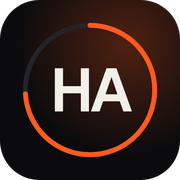
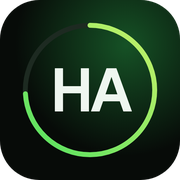
feat(design): 'Parrot' single-hue palette, derived from Harshan's colour
Parrot green is the only interactive colour; neutrals are green-tinted; the
accent word runs parrot -> yellow-green; deep forest atmosphere; red only for
errors. All text pairs >= 4.5:1 in both themes. Portrait gets a gradient frame;
44px nav targets; scrollbars restored; wordmark without stroke contours or
endless repaint; italic descenders no longer clipped. Share image and icons
regenerated; unused starter SVGs removed.

diff --git a/src/app/globals.css b/src/app/globals.css
@@ -19,30 +19,35 @@
 }
 
 /* ================================================================
-   Tokens — "Ember" (docs/design/REVAMP_2027.md §Tokens)
-   Warm paper / near-black neutrals + one signal colour: ember orange.
-   Every text pair verified ≥ 4.5:1 in both themes (see the doc's contrast table).
+   Tokens — "Parrot" (docs/design/REVAMP_2027.md §Tokens)
+   One hue, derived from Harshan's favourite: parrot green. Neutrals are green-tinted
+   (green-black canvas / leaf-paper), atmosphere is deep forest, the expressive word runs
+   parrot → yellow-green (the feather gradient). Red is used only for form errors.
+   Every text pair ≥ 4.5:1 in both themes.
    ================================================================ */
 :root {
-  --canvas: #f4f1ea; --surface: #fffdf8; --surface-2: #ebe7dd; --ink: #141210; --ink-2: #3a3631;
-  --muted: #67625a; --hairline: #e0dacd; --accent: #c2410c; --accent-ink: #ffffff; --accent-soft: rgba(194, 65, 12, .09); --danger: #c5262e;
-  --glow: rgba(234, 88, 12, .16); --glow-2: rgba(124, 58, 237, .08); --grain-op: .05; --inner: inset 0 1px 0 rgba(255, 255, 255, .8);
-  --shadow-card: 0 1px 2px rgba(40, 25, 10, .05), 0 18px 40px -12px rgba(40, 25, 10, .16);
+  --canvas: #f3f7f1; --surface: #ffffff; --surface-2: #e7efe4; --ink: #0b1a0f; --ink-2: #2c3d31;
+  --muted: #57685b; --hairline: #d9e3d5; --accent: #167a32; --accent-ink: #ffffff; --accent-soft: rgba(22, 122, 50, .1);
+  --g1: #167a32; --g2: #4f7a0a; --deep: #14532d; --danger: #c5262e;
+  --glow: rgba(22, 122, 50, .14); --glow-2: rgba(132, 190, 20, .12); --grain-op: .045; --inner: inset 0 1px 0 rgba(255, 255, 255, .8);
+  --shadow-card: 0 1px 2px rgba(10, 30, 15, .05), 0 18px 40px -12px rgba(10, 30, 15, .16);
   --glass: color-mix(in srgb, var(--surface) 72%, transparent);
+  --grad: linear-gradient(100deg, var(--g1) 15%, var(--g2) 95%);
   --r-panel: 28px; --r-card: 20px;
   --ease: cubic-bezier(.22, 1, .36, 1);
   --gutter: clamp(16px, 4vw, 56px);
   --maxw: 1440px;
 }
 html.dark {
-  --canvas: #0b0b0d; --surface: #141417; --surface-2: #1b1a1e; --ink: #f2efe9; --ink-2: #c8c4bc;
-  --muted: #8f8b84; --hairline: #242328; --accent: #ff5a1f; --accent-ink: #160700; --accent-soft: rgba(255, 90, 31, .12); --danger: #ff6b6b;
-  --glow: rgba(255, 90, 31, .16); --glow-2: rgba(139, 92, 246, .10); --grain-op: .06; --inner: inset 0 1px 0 rgba(255, 255, 255, .045);
+  --canvas: #070b08; --surface: #0f1611; --surface-2: #152018; --ink: #eef6ef; --ink-2: #c2d2c5;
+  --muted: #86998a; --hairline: #1d2a21; --accent: #52e05f; --accent-ink: #031207; --accent-soft: rgba(82, 224, 95, .12);
+  --g1: #52e05f; --g2: #c8f26a; --deep: #14532d; --danger: #ff6b6b;
+  --glow: rgba(34, 140, 62, .34); --glow-2: rgba(200, 242, 106, .10); --grain-op: .06; --inner: inset 0 1px 0 rgba(255, 255, 255, .045);
   --shadow-card: 0 1px 2px rgba(0, 0, 0, .5), 0 24px 60px -20px rgba(0, 0, 0, .7);
 }
-/* Wide-gamut screens get a hotter ember. */
+/* Wide-gamut screens get a truer parrot green. */
 @supports (color: color(display-p3 1 1 1)) {
-  html.dark { --accent: color(display-p3 1 .38 .13); }
+  html.dark { --accent: color(display-p3 .38 .89 .42); --g1: color(display-p3 .38 .89 .42); }
 }
 
 /* ================================================================
@@ -50,8 +55,7 @@ html.dark {
    ================================================================ */
 * { box-sizing: border-box; }
 html, body { margin: 0; padding: 0; }
-html { scrollbar-width: none; -ms-overflow-style: none; scroll-behavior: smooth; }
-html::-webkit-scrollbar { width: 0; height: 0; display: none; }
+html { scrollbar-width: thin; scrollbar-color: color-mix(in srgb, var(--ink) 22%, transparent) transparent; scroll-behavior: smooth; }
 body {
   --fd: var(--fb);
   font-family: var(--fb), ui-sans-serif, system-ui, sans-serif;
@@ -87,12 +91,15 @@ img { display: block; max-width: 100%; }
 .kn-wrap { position: relative; z-index: 2; width: 100%; max-width: var(--maxw); margin: 0 auto; padding-left: max(var(--gutter), env(safe-area-inset-left)); padding-right: max(var(--gutter), env(safe-area-inset-right)); }
 .kn-sec { position: relative; z-index: 2; padding-block: clamp(80px, 11vw, 160px); }
 .kn-serif { font-family: var(--fs), ui-serif, Georgia, serif; font-style: italic; font-weight: 400; letter-spacing: -.01em; }
+/* The expressive word: red → purple. Padding keeps the italic overhang inside the clip box. */
+.kn-serif.kn-accent { background: var(--grad); -webkit-background-clip: text; background-clip: text; color: transparent; padding: 0 .08em .04em .02em; margin: 0 -.06em 0 0; -webkit-box-decoration-break: clone; box-decoration-break: clone; }
 .kn-accent { color: var(--accent); }
 .kn-mono { font-family: var(--fm), ui-monospace, monospace; }
 .kn-label { font-family: var(--fm); font-size: 12px; letter-spacing: .08em; text-transform: uppercase; color: var(--muted); }
 
 /* Section header: (02) About ———— title */
 .kn-head { display: grid; gap: 22px; margin-bottom: clamp(40px, 6vw, 72px); }
+#work .kn-head { margin-bottom: clamp(16px, 2vw, 28px); }
 .kn-head-meta { display: flex; align-items: center; gap: 14px; }
 .kn-head-meta::after { content: ""; flex: 1; height: 1px; background: var(--hairline); }
 .kn-idx { font-family: var(--fm); font-size: 12px; color: var(--accent); letter-spacing: .04em; }
@@ -101,7 +108,7 @@ img { display: block; max-width: 100%; }
 .kn-sub { color: var(--ink-2); font-size: clamp(15px, 1.25vw, 17.5px); max-width: 58ch; margin: 0; }
 
 /* line-mask reveal (SplitText) */
-.kn-mline { display: block; overflow: hidden; padding-bottom: .08em; margin-bottom: -.08em; }
+.kn-mline { display: block; overflow: hidden; padding-bottom: .18em; margin-bottom: -.18em; }
 .kn-min { display: block; transform: translateY(112%); }
 
 /* Panels */
@@ -142,18 +149,17 @@ img { display: block; max-width: 100%; }
    Island nav
    ================================================================ */
 .kn-island { position: fixed; z-index: 80; top: calc(14px + env(safe-area-inset-top, 0px)); left: 50%; transform: translateX(-50%); display: flex; align-items: center; gap: 4px; padding: 6px; border-radius: 999px; background: var(--glass); border: 1px solid var(--hairline); box-shadow: var(--shadow-card), var(--inner); -webkit-backdrop-filter: blur(18px) saturate(1.5); backdrop-filter: blur(18px) saturate(1.5); max-width: calc(100vw - 24px); transition: transform .5s var(--ease), opacity .4s; }
-.kn-island[data-hidden="true"] { transform: translate(-50%, calc(-100% - 30px)); }
 .kn-island-mark { position: relative; width: 44px; height: 44px; display: grid; place-items: center; border-radius: 50%; border: 0; background: transparent; cursor: pointer; color: var(--ink); flex-shrink: 0; }
 .kn-island-mark span { font-family: var(--fd); font-weight: 600; font-size: 13px; letter-spacing: -.03em; }
 .kn-island-mark svg { position: absolute; inset: 0; transform: rotate(-90deg); }
 .kn-island-links { display: none; align-items: center; gap: 2px; padding: 0 4px; }
-.kn-island-link { position: relative; height: 38px; padding: 0 14px; border-radius: 999px; border: 0; background: transparent; color: var(--muted); font-size: 14px; font-weight: 450; cursor: pointer; transition: color .25s; }
+.kn-island-link { position: relative; height: 44px; padding: 0 14px; border-radius: 999px; border: 0; background: transparent; color: var(--muted); font-size: 14px; font-weight: 450; cursor: pointer; transition: color .25s; }
 .kn-island-link:hover { color: var(--ink); }
 .kn-island-link[data-active="true"] { color: var(--ink); }
 .kn-island-pill { position: absolute; inset: 0; border-radius: 999px; background: var(--surface-2); border: 1px solid var(--hairline); z-index: -1; }
-.kn-island-ask { display: inline-flex; align-items: center; gap: 8px; height: 40px; padding: 0 8px 0 14px; border-radius: 999px; border: 0; background: var(--accent); color: var(--accent-ink); font-size: 14px; font-weight: 500; cursor: pointer; white-space: nowrap; }
+.kn-island-ask { display: inline-flex; align-items: center; gap: 8px; height: 44px; padding: 0 8px 0 14px; border-radius: 999px; border: 0; background: var(--accent); color: var(--accent-ink); font-size: 14px; font-weight: 500; cursor: pointer; white-space: nowrap; }
 .kn-island-ask kbd { font-family: var(--fm); font-size: 11px; padding: 1px 7px; border-radius: 999px; border: 1px solid color-mix(in srgb, var(--accent-ink) 45%, transparent); }
-.kn-island-icon { width: 40px; height: 40px; display: grid; place-items: center; border-radius: 50%; border: 0; background: transparent; color: var(--ink); cursor: pointer; transition: background .25s; flex-shrink: 0; }
+.kn-island-icon { width: 44px; height: 44px; display: grid; place-items: center; border-radius: 50%; border: 0; background: transparent; color: var(--ink); cursor: pointer; transition: background .25s; flex-shrink: 0; }
 .kn-island-icon:hover { background: var(--surface-2); }
 .kn-island-burger { display: grid; }
 @media (min-width: 900px) {
@@ -195,19 +201,27 @@ html[data-intro="skip"] .kn-intro { display: none; }
 /* ================================================================
    01 Hero
    ================================================================ */
-.kn-hero { position: relative; z-index: 2; min-height: 100dvh; display: flex; flex-direction: column; padding-top: clamp(96px, 13vh, 140px); padding-bottom: 32px; }
-.kn-hero-meta { display: flex; flex-wrap: wrap; align-items: center; gap: 10px 22px; margin-bottom: clamp(24px, 4vh, 44px); }
-.kn-hero-meta > * { display: inline-flex; align-items: center; gap: 9px; font-family: var(--fm); font-size: 12px; letter-spacing: .04em; color: var(--muted); }
-.kn-hero-meta strong { color: var(--ink); font-weight: 500; }
+.kn-hero { position: relative; z-index: 2; min-height: 100dvh; display: flex; flex-direction: column; padding-top: clamp(92px, 12vh, 132px); padding-bottom: 28px; }
+.kn-hero-meta { display: flex; flex-wrap: wrap; align-items: center; gap: 10px 22px; margin-bottom: clamp(20px, 3vh, 36px); }
+.kn-hero-meta { justify-content: space-between; }
+.kn-hero-id { display: flex; flex-wrap: wrap; align-items: baseline; gap: 4px 12px; margin: 0; }
+.kn-hero-id strong { font-family: var(--fd); font-weight: 600; font-size: clamp(17px, 1.4vw, 20px); letter-spacing: -.02em; color: var(--ink); }
+.kn-hero-id span { font-family: var(--fm); font-size: 12px; letter-spacing: .06em; text-transform: uppercase; color: var(--accent); }
+.kn-hero-facts { display: flex; flex-wrap: wrap; gap: 8px 22px; }
+.kn-hero-facts > span { display: inline-flex; align-items: center; gap: 9px; font-family: var(--fm); font-size: 12px; letter-spacing: .04em; color: var(--muted); }
+.kn-hero-facts strong { color: var(--ink); font-weight: 500; }
 .kn-hero-grid { display: grid; grid-template-columns: minmax(0, 1fr); gap: 40px; align-items: end; flex: 1; }
-.kn-h1 { font-family: var(--fd); font-weight: 500; font-size: clamp(3rem, min(7.4vw, 13vh), 8.2rem); line-height: .9; letter-spacing: -.055em; margin: 0; }
+.kn-h1 { font-family: var(--fd); font-weight: 500; font-size: clamp(3rem, min(7.2vw, 11.6vh), 8.2rem); line-height: .9; letter-spacing: -.055em; margin: 0; }
 .kn-h1 .kn-serif { letter-spacing: -.025em; padding-right: .04em; }
-.kn-hero-lead { max-width: 52ch; margin: clamp(20px, 2.6vh, 32px) 0 0; font-size: clamp(16px, 1.35vw, 19px); line-height: 1.6; color: var(--ink-2); }
+.kn-hero-lead { max-width: 60ch; margin: clamp(20px, 2.6vh, 32px) 0 0; font-size: clamp(16px, 1.35vw, 19px); line-height: 1.6; color: var(--ink-2); }
 .kn-hero-ctas { display: flex; flex-wrap: wrap; gap: 12px; margin-top: clamp(16px, 2.4vh, 24px); }
 
 /* Ask bar — AI-native entry */
 .kn-ask { display: flex; align-items: center; gap: 12px; width: min(100%, 560px); min-height: 60px; margin-top: clamp(20px, 3vh, 30px); padding: 8px 8px 8px 18px; border-radius: 999px; border: 1px solid var(--hairline); background: var(--glass); -webkit-backdrop-filter: blur(14px); backdrop-filter: blur(14px); box-shadow: var(--shadow-card), var(--inner); cursor: text; text-align: left; color: var(--muted); font-size: 15px; transition: border-color .3s; }
 .kn-ask:hover, .kn-ask:focus-visible { border-color: color-mix(in srgb, var(--accent) 55%, var(--hairline)); }
+.kn-ask:focus-within { border-color: var(--accent); box-shadow: var(--shadow-card), var(--inner), 0 0 0 3px var(--accent-soft); }
+.kn-ask-open { flex: 1; min-width: 0; min-height: 44px; align-self: stretch; display: flex; align-items: center; gap: 12px; padding: 0; border: 0; border-radius: 999px; background: transparent; color: inherit; font: inherit; text-align: left; cursor: text; }
+.kn-ask-open:focus-visible { outline: 2px solid var(--accent); outline-offset: 4px; }
 .kn-ask-spark { color: var(--accent); display: flex; flex-shrink: 0; }
 .kn-ask-text { flex: 1; min-width: 0; overflow: hidden; white-space: nowrap; text-overflow: ellipsis; }
 .kn-ask-text b { font-weight: 400; color: var(--ink); }
@@ -215,18 +229,22 @@ html[data-intro="skip"] .kn-intro { display: none; }
 .kn-askbar-go { flex-shrink: 0; display: grid; place-items: center; width: 44px; height: 44px; border-radius: 50%; border: 0; background: var(--accent); color: var(--accent-ink); cursor: pointer; transition: transform .35s var(--ease); }
 .kn-askbar-go:hover { transform: rotate(-12deg) scale(1.06); }
 
-/* Portrait card */
-.kn-portrait-card { position: relative; width: 100%; max-width: 400px; max-height: 62vh; aspect-ratio: 4 / 5; border-radius: var(--r-panel); overflow: hidden; border: 1px solid var(--hairline); background: var(--surface-2); justify-self: end; }
+/* Portrait card — 1px red→purple gradient frame (signature) */
+.kn-portrait-card::before { content: ""; position: absolute; inset: 0; z-index: 3; border-radius: inherit; padding: 1px; background: var(--grad); -webkit-mask: linear-gradient(#000 0 0) content-box, linear-gradient(#000 0 0); -webkit-mask-composite: xor; mask-composite: exclude; pointer-events: none; opacity: .9; }
+.kn-hero-avatar { position: relative; width: 44px; height: 44px; border-radius: 50%; padding: 2px; background: var(--grad); flex-shrink: 0; }
+.kn-hero-avatar img { width: 100%; height: 100%; border-radius: 50%; object-fit: cover; object-position: 50% 28%; filter: grayscale(1) contrast(1.05); border: 2px solid var(--canvas); }
+@media (min-width: 720px) { .kn-hero-avatar { display: none; } }
+.kn-portrait-card { position: relative; width: 100%; max-width: 400px; max-height: 58vh; aspect-ratio: 4 / 5; padding: 0; border-radius: var(--r-panel); overflow: hidden; border: 1px solid var(--hairline); background: var(--surface-2); justify-self: end; }
 .kn-portrait { filter: grayscale(1) contrast(1.08) brightness(.98); transition: filter .6s ease, transform 1.2s var(--ease); }
 html.dark .kn-portrait { filter: grayscale(1) contrast(1.04) brightness(1.04); }
 .kn-portrait-card:hover .kn-portrait { filter: grayscale(.15) contrast(1.02); transform: scale(1.025); }
-.kn-duotone { position: absolute; inset: 0; background: var(--accent); mix-blend-mode: color; opacity: .06; pointer-events: none; }
+.kn-duotone { position: absolute; inset: 0; background: var(--g2); mix-blend-mode: color; opacity: .06; pointer-events: none; }
 .kn-portrait-fade { position: absolute; inset: 0; background: linear-gradient(to top, color-mix(in srgb, var(--canvas) 80%, transparent), transparent 45%); pointer-events: none; }
 .kn-float { position: absolute; left: 14px; right: 14px; bottom: 14px; display: flex; align-items: center; gap: 12px; padding: 12px 14px; border-radius: 18px; background: var(--glass); border: 1px solid var(--hairline); -webkit-backdrop-filter: blur(16px) saturate(1.4); backdrop-filter: blur(16px) saturate(1.4); }
 .kn-float p { margin: 0; font-size: 13px; line-height: 1.35; color: var(--ink); }
 .kn-float small { display: block; font-family: var(--fm); font-size: 10.5px; letter-spacing: .06em; text-transform: uppercase; color: var(--muted); }
 
-.kn-hero-foot { display: grid; grid-template-columns: repeat(3, minmax(0, 1fr)); gap: 16px; margin-top: clamp(32px, 5vh, 56px); padding-top: 22px; border-top: 1px solid var(--hairline); }
+.kn-hero-foot { display: grid; grid-template-columns: repeat(3, minmax(0, 1fr)); gap: 16px; margin-top: clamp(28px, 4vh, 52px); padding-top: 20px; border-top: 1px solid var(--hairline); }
 .kn-stat-n { font-family: var(--fd); font-weight: 500; font-size: clamp(28px, min(3.4vw, 6vh), 48px); letter-spacing: -.04em; line-height: 1; }
 .kn-stat-n .kn-accent { font-size: .7em; vertical-align: .32em; margin-left: 2px; }
 .kn-stat-l { font-size: 13px; color: var(--muted); margin-top: 8px; }
@@ -235,8 +253,12 @@ html.dark .kn-portrait { filter: grayscale(1) contrast(1.04) brightness(1.04); }
   .kn-hero-grid { grid-template-columns: minmax(0, 1fr) minmax(300px, 380px); gap: clamp(40px, 5vw, 88px); align-items: center; }
   .kn-hero-foot { grid-template-columns: repeat(3, minmax(0, 1fr)) auto; align-items: end; }
 }
-@media (max-width: 1023px) { .kn-portrait-card { justify-self: start; max-width: 100%; aspect-ratio: 5 / 4; } }
-@media (max-width: 560px) { .kn-portrait-card { aspect-ratio: 4 / 5; } .kn-hero-foot { gap: 10px; } .kn-stat-l { font-size: 12px; } }
+@media (min-width: 720px) and (max-width: 1023px) {
+  .kn-hero-grid { grid-template-columns: minmax(0, 1.5fr) minmax(0, 1fr); gap: 28px; align-items: center; }
+  .kn-portrait-card { max-height: none; aspect-ratio: 3 / 4; }
+}
+@media (max-width: 719px) { .kn-portrait-card { justify-self: stretch; max-width: 100%; max-height: 72vh; aspect-ratio: 4 / 5; } }
+@media (max-width: 560px) { .kn-hero-foot { gap: 10px; } .kn-stat-l { font-size: 12px; } }
 
 .kn-scrollcue { display: none; align-items: center; gap: 10px; font-family: var(--fm); font-size: 11.5px; color: var(--muted); letter-spacing: .06em; text-transform: uppercase; background: none; border: 0; cursor: pointer; padding: 0; }
 .kn-scrollcue i { position: relative; width: 1px; height: 38px; background: var(--hairline); overflow: hidden; }
@@ -247,13 +269,22 @@ html.dark .kn-portrait { filter: grayscale(1) contrast(1.04) brightness(1.04); }
 /* ================================================================
    Marquee ticker
    ================================================================ */
-.kn-ticker { position: relative; z-index: 2; border-top: 1px solid var(--hairline); border-bottom: 1px solid var(--hairline); padding: clamp(18px, 2.4vw, 28px) 0; overflow: hidden; -webkit-mask-image: linear-gradient(90deg, transparent, #000 8%, #000 92%, transparent); mask-image: linear-gradient(90deg, transparent, #000 8%, #000 92%, transparent); }
+.kn-ticker { position: relative; z-index: 2; border-top: 1px solid var(--hairline); border-bottom: 1px solid var(--hairline); padding: clamp(18px, 2.4vw, 28px) 0; overflow: hidden; }
+.kn-ticker-mask { -webkit-mask-image: linear-gradient(90deg, transparent, #000 8%, #000 88%, transparent); mask-image: linear-gradient(90deg, transparent, #000 8%, #000 88%, transparent); }
 .kn-track { display: flex; width: max-content; animation: kn-marquee var(--dur, 40s) linear infinite; }
 .kn-track[data-rev="true"] { animation-name: kn-marquee-rev; }
 .kn-track:hover, .kn-marquee-host:hover .kn-track { animation-play-state: paused; }
 .kn-ticker-item { display: inline-flex; align-items: center; gap: clamp(22px, 3vw, 44px); padding-right: clamp(22px, 3vw, 44px); font-family: var(--fd); font-weight: 500; font-size: clamp(22px, 3.2vw, 44px); letter-spacing: -.035em; color: var(--muted); white-space: nowrap; }
 .kn-ticker-item:nth-child(3n+1) { color: var(--ink); }
 .kn-ticker-item i { font-style: normal; color: var(--accent); font-size: .55em; }
+
+.kn-marquee-ctl { display: inline-flex; align-items: center; gap: 8px; height: 36px; padding: 0 14px; border-radius: 999px; border: 1px solid var(--hairline); background: transparent; color: var(--muted); font-family: var(--fm); font-size: 11.5px; letter-spacing: .06em; text-transform: uppercase; cursor: pointer; }
+.kn-marquee-ctl:hover { color: var(--ink); }
+[data-paused="true"] .kn-track { animation-play-state: paused; }
+.kn-strip-nav { display: flex; gap: 8px; }
+.kn-strip-btn { width: 44px; height: 44px; display: grid; place-items: center; border-radius: 50%; border: 1px solid var(--hairline); background: transparent; color: var(--ink); cursor: pointer; }
+.kn-strip-btn:hover { border-color: var(--accent); }
+@media (hover: none) { .kn-strip-nav { display: none; } }
 
 /* ================================================================
    02 About — bento
@@ -267,7 +298,7 @@ html.dark .kn-portrait { filter: grayscale(1) contrast(1.04) brightness(1.04); }
 .kn-tile--statement .kn-big { font-family: var(--fd); font-weight: 500; font-size: clamp(1.6rem, 2.7vw, 2.4rem); line-height: 1.08; letter-spacing: -.035em; color: var(--ink); margin: 0 0 22px; max-width: 22ch; }
 .kn-tile--photo { padding: 0; min-height: 320px; }
 .kn-tile--stat .kn-stat-n { font-size: clamp(44px, 5vw, 72px); }
-.kn-tile--now { background: linear-gradient(160deg, color-mix(in srgb, var(--accent) 10%, var(--surface)), var(--surface) 60%); }
+.kn-tile--now { background: linear-gradient(160deg, color-mix(in srgb, var(--deep) 22%, var(--surface)), var(--surface) 62%); }
 .kn-tile--clock .kn-clock { font-family: var(--fd); font-weight: 500; font-size: clamp(40px, 4.4vw, 64px); letter-spacing: -.05em; line-height: 1; font-variant-numeric: tabular-nums; }
 .kn-tile--cv { display: flex; flex-direction: column; justify-content: space-between; gap: 22px; background: var(--accent); color: var(--accent-ink); border-color: var(--accent); cursor: pointer; }
 .kn-tile--cv:hover { border-color: var(--accent); }
@@ -291,14 +322,12 @@ html.dark .kn-portrait { filter: grayscale(1) contrast(1.04) brightness(1.04); }
    03 Work — gallery + archive
    ================================================================ */
 .kn-gallery-pin { position: relative; }
-.kn-gallery-sticky { position: sticky; top: 0; height: 100dvh; display: flex; flex-direction: column; justify-content: center; overflow: hidden; }
+.kn-gallery-sticky { position: sticky; top: 0; height: 100dvh; display: flex; flex-direction: column; justify-content: flex-start; padding-top: clamp(80px, 10vh, 100px); overflow: hidden; }
 .kn-gallery-track { display: flex; gap: clamp(14px, 1.6vw, 24px); will-change: transform; }
 .kn-gallery-strip { display: flex; gap: 14px; overflow-x: auto; scroll-snap-type: x mandatory; padding-bottom: 6px; margin: 0 calc(-1 * var(--gutter)); padding-left: var(--gutter); padding-right: var(--gutter); scroll-padding-left: var(--gutter); }
 .kn-gcard { position: relative; flex: 0 0 clamp(280px, 82vw, 560px); scroll-snap-align: start; border: 1px solid var(--hairline); border-radius: var(--r-panel); background: var(--surface); overflow: hidden; cursor: pointer; text-align: left; color: inherit; padding: 0; font: inherit; display: flex; flex-direction: column; transition: border-color .35s; }
 .kn-gcard:hover { border-color: color-mix(in srgb, var(--accent) 45%, var(--hairline)); }
 .kn-gcard-media { position: relative; aspect-ratio: 16 / 10; overflow: hidden; background: var(--surface-2); }
-.kn-gcard-media img { transition: transform 1s var(--ease), filter .6s ease !important; }
-.kn-gcard:hover .kn-gcard-media img { transform: scale(1.04); }
 .kn-gcard-body { display: grid; grid-template-columns: minmax(0, 1fr) auto; gap: 6px 16px; padding: 20px 22px 22px; }
 .kn-gcard-body h3 { margin: 0; font-family: var(--fd); font-weight: 500; font-size: clamp(20px, 1.8vw, 26px); letter-spacing: -.03em; }
 .kn-gcard-body p { grid-column: 1 / -1; margin: 0; color: var(--muted); font-size: 14px; line-height: 1.55; }
@@ -307,13 +336,30 @@ html.dark .kn-portrait { filter: grayscale(1) contrast(1.04) brightness(1.04); }
 .kn-gallery-progress { width: 140px; height: 2px; background: var(--hairline); border-radius: 2px; overflow: hidden; }
 .kn-gallery-progress > span { display: block; height: 100%; background: var(--accent); transform-origin: 0 50%; }
 
+/* Spec-sheet covers (real data, no generated art) */
+.kn-cover { position: absolute; inset: 0; display: flex; flex-direction: column; justify-content: space-between; gap: 14px; padding: clamp(18px, 2vw, 26px); background-color: var(--surface-2); background-image: linear-gradient(var(--hairline) 1px, transparent 1px), linear-gradient(90deg, var(--hairline) 1px, transparent 1px), radial-gradient(90% 80% at 100% 0%, color-mix(in srgb, var(--g2) 18%, transparent), transparent 60%), radial-gradient(70% 60% at 0% 100%, color-mix(in srgb, var(--deep) 22%, transparent), transparent 60%); background-size: 32px 32px, 32px 32px, 100% 100%, 100% 100%; background-position: -1px -1px, -1px -1px, 0 0, 0 0; overflow: hidden; }
+.kn-cover::before { content: ""; position: absolute; inset: 0; background: linear-gradient(to bottom, transparent, var(--surface-2) 85%); opacity: .55; pointer-events: none; }
+.kn-cover > * { position: relative; }
+.kn-cover-top { display: flex; justify-content: space-between; font-family: var(--fm); font-size: 11.5px; letter-spacing: .08em; text-transform: uppercase; color: var(--ink-2); }
+.kn-cover-no { color: var(--muted); }
+.kn-cover-title { font-family: var(--fd); font-weight: 500; font-size: clamp(34px, 4.4vw, 64px); line-height: .92; letter-spacing: -.055em; color: var(--ink); max-width: 9ch; transition: transform .8s var(--ease); transform-origin: 0 100%; }
+.kn-gcard:hover .kn-cover-title { transform: translateY(-4px) scale(1.03); }
+.kn-cover-bar { display: flex; height: 8px; border-radius: 6px; overflow: hidden; gap: 2px; }
+.kn-cover-bar i { display: block; height: 100%; min-width: 3px; transform-origin: 0 50%; transition: transform .9s var(--ease); }
+.kn-cover-legend { display: flex; flex-wrap: wrap; gap: 6px 16px; margin-top: 10px; font-family: var(--fm); font-size: 11.5px; color: var(--ink-2); }
+.kn-cover-legend span { display: inline-flex; align-items: center; gap: 6px; }
+.kn-cover-legend b { width: 8px; height: 8px; border-radius: 2px; }
+.kn-cover-legend em { font-style: normal; color: var(--muted); }
+.kn-cover-path { margin-top: 8px; font-family: var(--fm); font-size: 11px; color: var(--muted); }
+.kn-cover--compact { padding: 16px; }
+.kn-cover--compact .kn-cover-title { font-size: 34px; }
+
 /* thumbnails */
 .kn-thumb { width: 100%; height: 100%; object-fit: cover; object-position: center; -webkit-backface-visibility: hidden; backface-visibility: hidden; filter: grayscale(1) contrast(1.02); transition: filter .5s ease; }
 .kn-thumb--color { filter: none; }
 .kn-gcard:hover .kn-thumb, .kn-row:hover .kn-thumb { filter: grayscale(0) contrast(1); }
-/* The project art is light-ground; in dark mode invert it with hue preserved so cards don't glare. */
-html.dark .kn-thumb { filter: invert(.93) hue-rotate(180deg) grayscale(1) contrast(1.05); }
-html.dark .kn-thumb--color, html.dark .kn-gcard:hover .kn-thumb, html.dark .kn-row:hover .kn-thumb { filter: invert(.93) hue-rotate(180deg) contrast(1.05); }
+html.dark .kn-thumb { filter: grayscale(1) brightness(.88); }
+html.dark .kn-thumb--color, html.dark .kn-row:hover .kn-thumb { filter: brightness(.9); }
 .kn-thumb-wrap { position: relative; aspect-ratio: 2 / 1; overflow: hidden; background: var(--surface-2); }
 
 /* archive */
@@ -360,13 +406,17 @@ html.dark .kn-thumb--color, html.dark .kn-gcard:hover .kn-thumb, html.dark .kn-r
 /* ================================================================
    05 Stack
    ================================================================ */
-.kn-stack { display: grid; grid-template-columns: minmax(0, 1fr); border-top: 1px solid var(--hairline); }
-.kn-stack-row { display: grid; grid-template-columns: minmax(0, 1fr); gap: 12px 32px; padding: 22px 0; border-bottom: 1px solid var(--hairline); }
-.kn-stack-row h3 { margin: 0; font-family: var(--fd); font-weight: 500; font-size: 20px; letter-spacing: -.02em; }
+.kn-stack { display: grid; grid-template-columns: minmax(0, 1fr); gap: 14px; }
+.kn-stack-row { display: flex; flex-direction: column; gap: 18px; padding: clamp(20px, 2.2vw, 28px); border: 1px solid var(--hairline); border-radius: var(--r-card); background: var(--surface); box-shadow: var(--inner); transition: border-color .35s, transform .5s var(--ease); }
+.kn-stack-row:hover { border-color: color-mix(in srgb, var(--accent) 35%, var(--hairline)); transform: translateY(-3px); }
+.kn-stack-row h3 { margin: 0; display: flex; align-items: baseline; justify-content: space-between; font-family: var(--fd); font-weight: 500; font-size: 20px; letter-spacing: -.02em; }
+.kn-stack-row h3 small { font-family: var(--fm); font-size: 11.5px; color: var(--muted); font-weight: 400; }
 .kn-stack-chips { display: flex; flex-wrap: wrap; gap: 8px; }
 .kn-stack-chips .kn-chip { font-size: 12.5px; padding: 6px 13px; transition: border-color .25s, color .25s; }
 .kn-stack-chips .kn-chip:hover { border-color: var(--accent); color: var(--ink); }
-@media (min-width: 900px) { .kn-stack-row { grid-template-columns: 240px minmax(0, 1fr); align-items: center; } }
+.kn-chip-n { margin-left: 5px; font-size: 9.5px; color: var(--accent); vertical-align: super; line-height: 0; }
+@media (min-width: 720px) { .kn-stack { grid-template-columns: repeat(2, minmax(0, 1fr)); } }
+@media (min-width: 1100px) { .kn-stack { grid-template-columns: repeat(3, minmax(0, 1fr)); } }
 
 /* ================================================================
    06 Experience — sticky title + filled timeline
@@ -426,7 +476,7 @@ textarea.kn-field { resize: vertical; min-height: 110px; }
 .kn-footer { position: relative; z-index: 2; border-top: 1px solid var(--hairline); padding-top: 32px; overflow: hidden; }
 .kn-footer-row { display: flex; flex-wrap: wrap; justify-content: space-between; align-items: center; gap: 14px 24px; font-size: 13px; color: var(--muted); }
 .kn-footer-row button { display: inline-flex; align-items: center; gap: 7px; font-size: 13px; color: var(--ink); background: transparent; border: 1px solid var(--hairline); border-radius: 999px; padding: 8px 15px; cursor: pointer; }
-.kn-wordmark { display: block; margin: clamp(24px, 4vw, 48px) 0 -0.16em; font-family: var(--fd); font-weight: 600; font-size: clamp(4rem, 19.5vw, 19rem); line-height: .82; letter-spacing: -.075em; text-align: center; color: transparent; -webkit-text-stroke: 1px color-mix(in srgb, var(--ink) 22%, transparent); user-select: none; white-space: nowrap; background: linear-gradient(90deg, transparent 30%, color-mix(in srgb, var(--accent) 60%, transparent) 50%, transparent 70%) 0 0 / 200% 100%; -webkit-background-clip: text; background-clip: text; animation: kn-shine 9s linear infinite; }
+.kn-wordmark { display: block; margin: clamp(24px, 4vw, 48px) 0 -0.16em; font-family: var(--fd); font-weight: 600; font-size: clamp(4rem, 19.5vw, 19rem); line-height: .82; letter-spacing: -.075em; text-align: center; user-select: none; white-space: nowrap; background: linear-gradient(180deg, color-mix(in srgb, var(--ink) 14%, transparent), transparent 85%), var(--grad); background-blend-mode: normal; -webkit-background-clip: text; background-clip: text; color: transparent; opacity: .22; }
 
 /* ================================================================
    Modal / palette / assistant
@@ -472,7 +522,7 @@ textarea.kn-field { resize: vertical; min-height: 110px; }
   .kn-min { transform: none !important; }
   .kn-track { animation: none !important; flex-wrap: wrap; width: auto; }
   .kn-track > div { flex-wrap: wrap; row-gap: 14px; }
-  .kn-track > [aria-hidden="true"], .kn-peers > [aria-hidden="true"] { display: none; }
+  .kn-track [aria-hidden="true"] { display: none; }
   .kn-cursor { display: none !important; }
   ::view-transition-new(root), ::view-transition-old(root) { animation: none !important; }
 }

diff --git a/src/app/layout.tsx b/src/app/layout.tsx
@@ -42,8 +42,8 @@ export const metadata: Metadata = {
 
 export const viewport: Viewport = {
   themeColor: [
-    { media: "(prefers-color-scheme: dark)", color: "#0b0b0d" },
-    { media: "(prefers-color-scheme: light)", color: "#f4f1ea" },
+    { media: "(prefers-color-scheme: dark)", color: "#070b08" },
+    { media: "(prefers-color-scheme: light)", color: "#f3f7f1" },
   ],
   width: "device-width",
   initialScale: 1,

diff --git a/docs/design/REVAMP_2027.md b/docs/design/REVAMP_2027.md
@@ -1,4 +1,4 @@
-# Kimo Nexus — 2027 Revamp ("Ember")
+# Kimo Nexus — 2027 Revamp ("Parrot")
 
 > Supersedes the Drake-template layout in `UX_REVAMP.md` (kept for history). Tokens and motion
 > rules here override `DESIGN_SYSTEM.md` where they disagree. Copy still comes only from
@@ -28,7 +28,7 @@ people who **use** it. Each one has a brief and a veto.
 
 | Persona | Owns | Calls made |
 |---|---|---|
-| **Art director** (Awwwards, Godly, CSS Design Awards) | Identity, type, colour | Grotesk + italic serif pairing (Geist / Instrument Serif / Geist Mono). New palette, "Ember" (see Tokens). A giant outlined wordmark closes the page. |
+| **Art director** (Awwwards, Godly, CSS Design Awards) | Identity, type, colour | Grotesk + italic serif pairing (Geist / Instrument Serif / Geist Mono). New palette, "Parrot", derived from Harshan's favourite colour (see Tokens). A giant outlined wordmark closes the page. |
 | **Motion designer** (Codrops, Awwwards SOTD) | Signature motion, rhythm | Five signatures only: line-mask headline reveal, scroll-pinned horizontal gallery, cursor-following preview on the archive list, scroll-linked timeline fill, magnetic CTAs. Everything else is a 0.7s fade-up. A custom cursor on fine pointers only. |
 | **UX / IA strategist** (Mobbin, One Page Love) | Flow, scan path, nav | Drop the sidebar. One floating "island" nav carries the monogram + scroll-progress ring, section links, Ask and the theme switch. Featured work moves up to straight after About. The 10-second scan has to answer: who, what, proof, how to contact. |
 | **Layout / product designer** (BentoGrids, Land-book, Dribbble, Behance) | Section composition | About becomes a bento (statement, portrait, stats, "now", local time, résumé, education). Services become an editorial numbered index. Work splits into a featured *gallery* plus a dense *archive* table. Each section gets a distinct shape. |
@@ -66,27 +66,31 @@ Work moves ahead of Services because the user personas came for proof, not a ser
 
 ## Tokens
 
-### Colour: "Ember"
+### Colour: "Parrot"
 
-Picked for this person specifically. Voice and real-time AI is the strongest proven work,
-and ember orange is the on-air light, the colour that means "live signal". It also breaks
-from the blue, purple and neon-green that nearly every AI-engineer portfolio uses (the old
-lime included). The neutrals are warm, paper in light mode and off-white ink in dark mode, so
-the page reads editorial and human rather than terminal-cold.
+Derived from one colour Harshan chose: **parrot green**. Every other colour comes from that
+one hue, so the palette reads as a brand. Two earlier rounds were dropped: lime (template-feel)
+and Ember orange (not his colour).
+
+- **Neutrals are green-tinted.** Dark mode is a green-black canvas, light mode a pale leaf-paper.
+- **Parrot green is the only interactive colour:** CTAs, links, focus, the "available" dot and the
+  progress ring. Green always means you can act on it.
+- **The expressive word** (italic serif, three headlines only: hero, work, contact) runs a
+  gradient from parrot to yellow-green, the way a parrot's feathers shade.
+- **Deep forest** is the background atmosphere (hero glow, "Now" tile, cover washes).
+- **Red appears only for form errors**, because it's a usability signal and not decoration.
 
 | Token | Light | Dark | Contrast vs canvas (light / dark) |
 |---|---|---|---|
-| canvas | `#f4f1ea` | `#0b0b0d` | — |
-| surface | `#fffdf8` | `#141417` | — |
-| ink | `#141210` | `#f2efe9` | 16.6 / 17.1 |
-| ink-2 | `#3a3631` | `#c8c4bc` | 10.6 / 11.3 |
-| muted | `#67625a` | `#8f8b84` | 5.4 / 5.8 |
-| accent (ember) | `#c2410c` | `#ff5a1f` (P3 `1 .38 .13`) | 4.6 / 6.3 |
-| accent-ink on accent | `#ffffff` | `#160700` | 5.2 / 6.3 |
-| danger | `#c5262e` | `#ff6b6b` | 5.0 / 7.1 |
-
-The accent marks the italic word, links, focus, the primary CTA and live dots. The hero glow
-pairs ember with a faint violet so the dark canvas has depth without a second UI colour.
+| canvas | `#f3f7f1` | `#070b08` | — |
+| surface | `#ffffff` | `#0f1611` | — |
+| ink | `#0b1a0f` | `#eef6ef` | 16.6 / 18.0 |
+| ink-2 | `#2c3d31` | `#c2d2c5` | 10.7 / 12.6 |
+| muted | `#57685b` | `#86998a` | 5.5 / 6.5 |
+| accent (parrot) | `#167a32` | `#52e05f` (P3 `.38 .89 .42`) | 5.0 / 11.5 |
+| gradient end (yellow-green) | `#4f7a0a` | `#c8f26a` | 4.7 / 15.4 |
+| accent-ink on accent | `#ffffff` | `#031207` | 5.4 / 11.1 |
+| danger (errors only) | `#c5262e` | `#ff6b6b` | 5.3 / 7.1 |
 
 ### Type, shape, glass
 
@@ -95,6 +99,11 @@ pairs ember with a faint violet so the dark canvas has depth without a second UI
 - **Shape:** 28px panel radius and 999px pills. Surfaces use a 1px hairline plus an inner
   highlight in place of a drop shadow.
 - **Glass:** only the island nav, the Ask bar and the hero chip use `backdrop-filter`.
+- **Portrait:** a 1px parrot-gradient frame on the hero card, a face-centred crop, and a
+  gradient-ring avatar beside the name on phones. On tablets the portrait sits beside the headline.
+- **Project covers:** typographic spec sheets built from real data (title plus the repo's GitHub
+  language breakdown, `scripts/sync-repo-languages.mjs`). The repos' own images are
+  AI-generated illustrations, so they are not shown as proof of work.
 - **Mobile-first:** base styles are single-column phone layouts, and `min-width` breakpoints
   add tablet (720/900) and desktop (1024/1100). Pinning, the cursor and hover previews switch
   on only for `(min-width:1024px) and (hover:hover) and (pointer:fine)`.
@@ -129,5 +138,7 @@ Easing `cubic-bezier(.22,1,.36,1)` for enter. Stagger 60–90ms. Only `transform
 - Content: every figure traces to `profile/resume.pdf`; every project card matches its repo's
   code (audit 2026-11-24). Years of experience are computed from 2021-02-01 at build time,
   floored to the half-year.
+- Responsive sweep: 11 widths (320–1920) × 2 themes, no overflow, clipped text or small targets, and desktop hero stats above the fold.
+- Gap verification (14 checks): no retracted claims, years consistent, résumé byte-identical, every Stack tool traced, all repo links public, metadata, no keys in bundles.
 - E2E suite (43 checks: nav, palette, Ask, archive, gallery, modal, theme, form, mobile,
   reduced motion, axe WCAG 2.2 AA in both themes): all pass.
